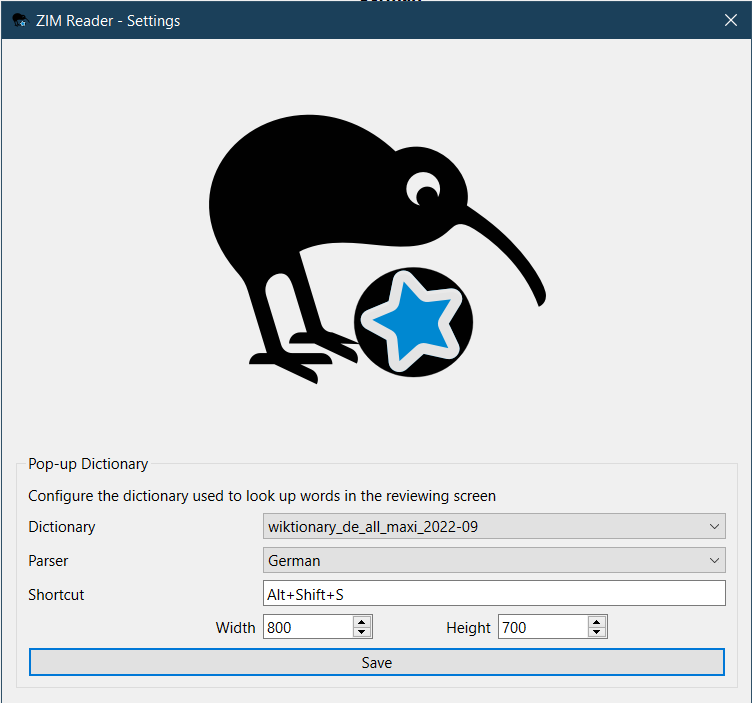
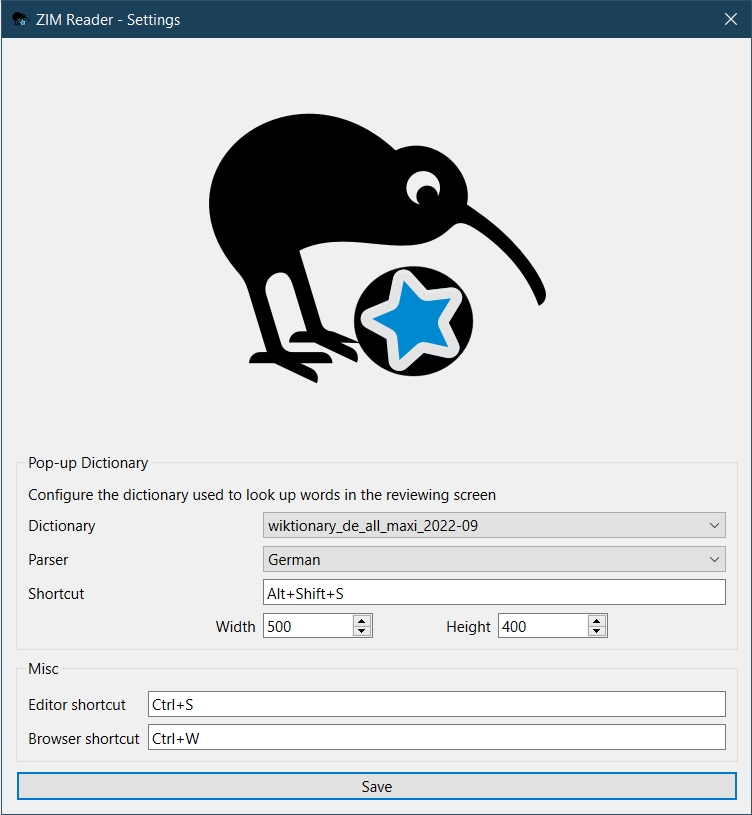
Allow customizing editor/browser shortcuts from settings page
Closes #12

Changed region(s): [[0.0, 0.5377, 0.9787, 0.9858], [0.2753, 0.1195, 0.734, 0.5676], [0.0, 0.0, 1.0, 0.0597]]

diff --git a/src/gui/settings.py b/src/gui/settings.py
@@ -53,8 +53,12 @@ class SettingsDialog(QDialog):
         )
         self.form.popupWidthSpinBox.setValue(int(self.config["popup_width"]))
         self.form.popupHeightSpinBox.setValue(int(self.config["popup_height"]))
-
-        # TODO: make other shortcuts configurable from here too
+        self.form.editorShortcut.setKeySequence(
+            QKeySequence(self.config["editor_shortcut"])
+        )
+        self.form.browserShortcut.setKeySequence(
+            QKeySequence(self.config["browser_shortcut"])
+        )
 
     def on_save(self) -> None:
         popup_dictionary = self.form.popupDictionaryComboBox.currentText()
@@ -62,11 +66,15 @@ class SettingsDialog(QDialog):
         popup_shortcut = self.form.popupShortcut.keySequence().toString()
         popup_width = self.form.popupWidthSpinBox.value()
         popup_height = self.form.popupHeightSpinBox.value()
+        editor_shortcut = self.form.editorShortcut.keySequence().toString()
+        browser_shortcut = self.form.browserShortcut.keySequence().toString()
         self.config["popup_dictionary"] = popup_dictionary
         self.config["popup_parser"] = popup_parser
         self.config["popup_shortcut"] = popup_shortcut
         self.config["popup_width"] = popup_width
         self.config["popup_height"] = popup_height
+        self.config["editor_shortcut"] = editor_shortcut
+        self.config["browser_shortcut"] = browser_shortcut
 
         self.mw.addonManager.writeConfig(__name__, self.config)
         popup.restart_server()
